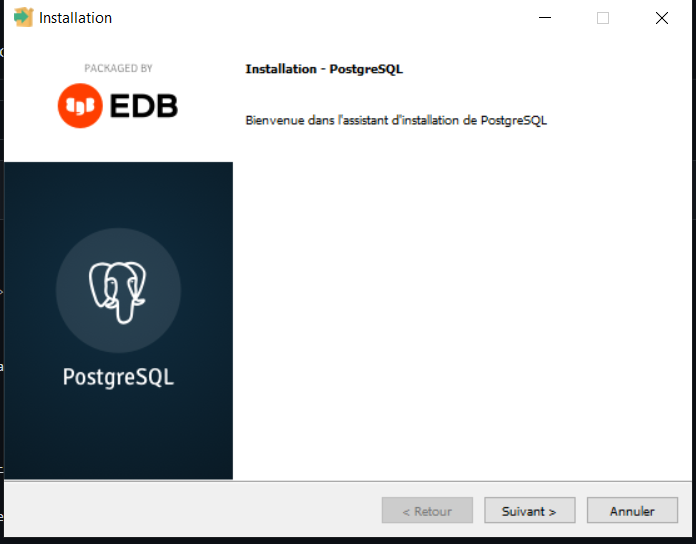
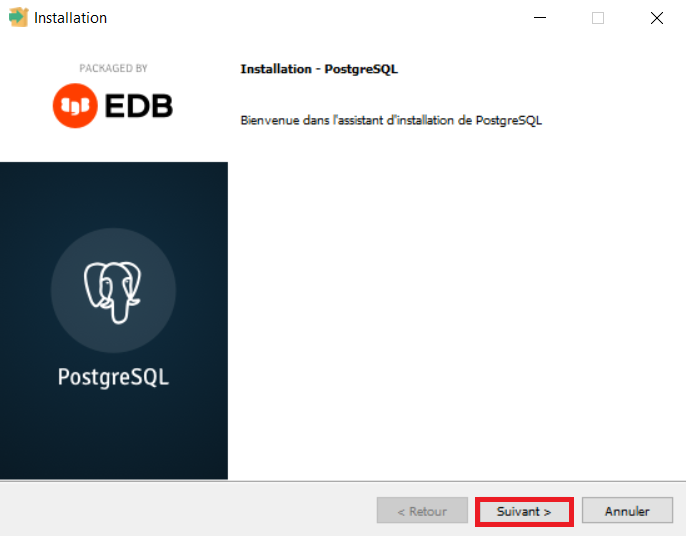
explanation database installation

diff --git a/README.md b/README.md
@@ -77,9 +77,64 @@ To get a local copy up and running, follow these simple example steps.
 
 postgresql: [postgresql-install] (305 Mo)
 
-After installing the installer this is what you will see:
+After installing the installer, open it and this is what you will see:
 
-![install_main_page]
+![install_main_page] 
+
+Click on Next/suivant
+
+
+![install_components]
+
+by default all are selected but if you don't want some, unmark them
+
+
+![install_repository]
+
+Click on Next/suivant if you choose default configuration
+
+
+![install_repo_data]
+
+Click on Next/suivant if you choose default configuration
+
+
+![install_mdp]
+
+choose a password for the database
+
+
+![install_port]
+
+you should let the default port and click on Next/suivant
+
+
+![install_language]
+
+choose the language for the database
+
+
+![install_summary]
+
+Click on Next/suivant 
+
+
+![install_almost]
+
+Click on Next/suivant 
+
+
+![install_installation]
+
+wait for the installation to finish
+
+
+![install_end]
+
+choose if you want to unmark and then click on Finish.
+
+
+You have installed postgresql, to open and configure see the documentation below.
 
 OS : Windows 10/11 (Lower versions might not work)
 
@@ -231,7 +286,6 @@ Project Link: [https://github.com/ECAM-2023/jira-connector](https://github.com/E
 [npmpackage]:  https://img.shields.io/badge/npm_packages-9.6.4-green
 [contributors-shield]: https://img.shields.io/badge/contributors-3-greenv
 [contributors-url]: https://github.com/ECAM-2023/jira-connector/graphs/contributors
-[install_main_page]: documentation/source/_static/images/inst_MP.PNG
 [Node.js]: https://img.shields.io/badge/node.js-555555?logo=nodedotjs
 [Node-url]: https://nodejs.org/
 [React.js]: https://img.shields.io/badge/React-555555?logo=react
@@ -250,3 +304,14 @@ Project Link: [https://github.com/ECAM-2023/jira-connector](https://github.com/E
 [Bootstrap.com]: https://img.shields.io/badge/Bootstrap-555555?&logo=bootstrap
 [Bootstrap-url]: https://getbootstrap.com
 [here]: https://code.visualstudio.com/Download
+[install_main_page]: documentation/source/_static/images/inst_MP.PNG
+[install_components]: documentation/source/_static/images/instcompo.PNG
+[install_repository]: documentation/source/_static/images/instrep.PNG
+[install_repo_data]: documentation/source/_static/images/instrepdata.PNG
+[install_mdp]: documentation/source/_static/images/instmdp.PNG
+[install_port]: documentation/source/_static/images/instport.PNG
+[install_language]: documentation/source/_static/images/instlg.PNG
+[install_summary]: documentation/source/_static/images/instres.PNG
+[install_almost]: documentation/source/_static/images/instfin.PNG
+[install_installation]: documentation/source/_static/images/instencours.PNG
+[install_end]: documentation/source/_static/images/instffin.PNG
